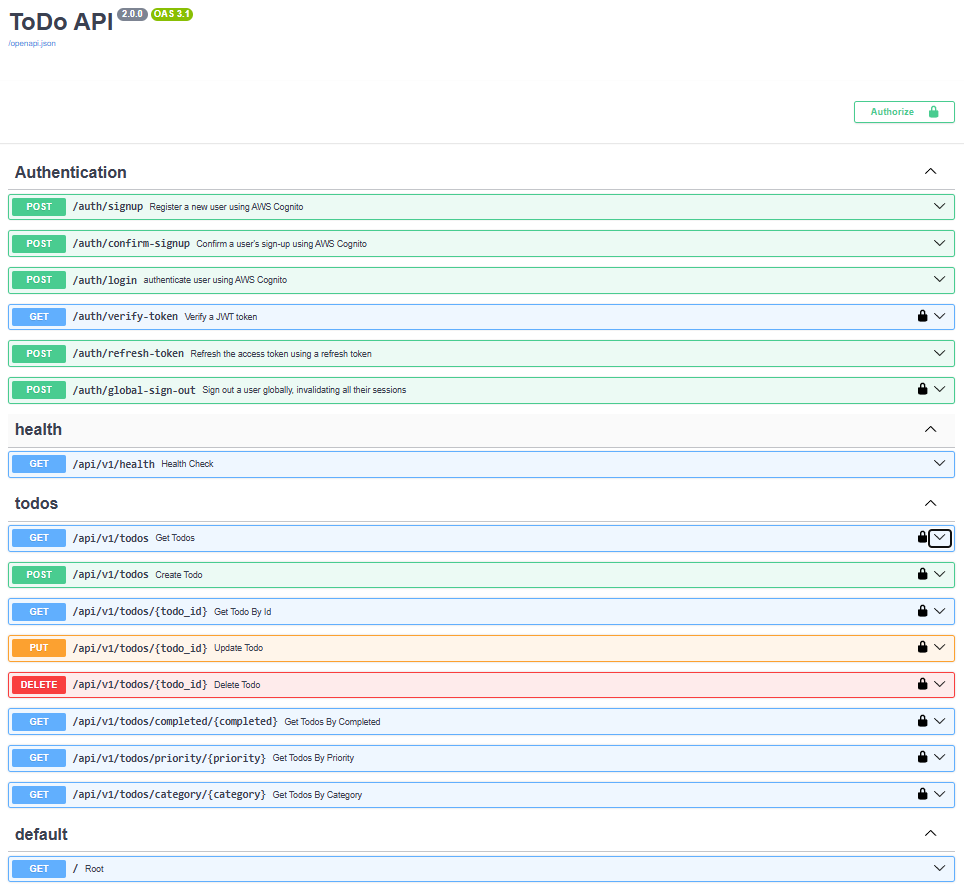
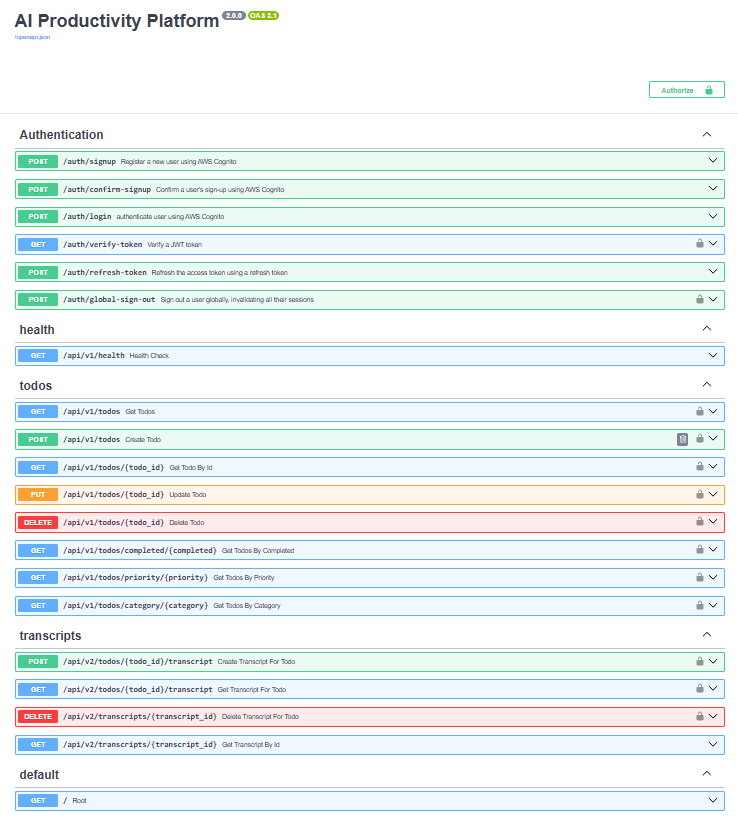
Readme updated

Changed region(s): [[0.0, 0.1521, 0.9973, 1.0], [0.0, 0.0, 0.374, 0.0608], [0.8726, 0.0912, 0.9973, 0.1521]]

diff --git a/README.md b/README.md
@@ -12,8 +12,9 @@ A production-inspired REST API for managing todo items, built with **FastAPI** a
 | **v1.1** | PostgreSQL on AWS RDS | Production-grade relational database. SQLAlchemy ORM, connection pooling, cloud-hosted on Amazon RDS. Alembic migrations for safe schema changes. Isolated SQLite test database. |
 | **v1.2** | PostgreSQL + AWS Cognito | Added **authentication & authorization** via AWS Cognito + JWT. Multi-user support with user isolation. User registration, login, token refresh, global sign-out. Auto-creates user records on first login. |
 | **v1.3** | PostgreSQL + AWS Cognito | Extended the Todo domain with **Priority** and **Category** support. Added enum-based validation, filtering endpoints, schema migration, repository/service updates, and expanded automated test coverage. |
+| **v1.4** | PostgreSQL + AWS Cognito | Introduced the foundation for the AI Productivity Platform. Added Transcript domain models, database schema, repository layer, service layer, and API v2 architecture in preparation for transcript ingestion and RAG processing. |
 
-> **Current version: v1.3 — Enhanced Todo Management with Priority & Category Filtering**
+> **Current version: v1.4 — AI Productivity Platform Foundation**
 
 ---
 
@@ -32,7 +33,9 @@ A production-inspired REST API for managing todo items, built with **FastAPI** a
 
 ## Overview
 
-This API provides full **CRUD** (Create, Read, Update, Delete) operations for todo items with **multi-user support and JWT-based authentication**. Data is persisted in a **PostgreSQL database hosted on AWS RDS**. User authentication is handled by **AWS Cognito** with secure JWT token verification.
+This project is evolving from a production-inspired Todo backend into an AI Productivity Platform.
+
+Version 1.x focuses on building a production-grade backend foundation using FastAPI, PostgreSQL, AWS Cognito, SQLAlchemy, and layered architecture. Future versions extend this backend with transcript ingestion, cloud storage, Retrieval-Augmented Generation (RAG), semantic search, and AI-powered productivity features.
 
 **Key features:**
 
@@ -44,6 +47,15 @@ This API provides full **CRUD** (Create, Read, Update, Delete) operations for to
 - 🗄️ **PostgreSQL + Alembic migrations** — production-grade database with version-controlled schema evolution
 - 🧪 **Comprehensive test suite** — 60 automated tests covering API, authentication, service, repository, and storage layers
 - 📝 **Request logging & middleware** — structured logs for every request
+
+- 🚀 **AI Platform Foundation**
+
+- API versioning (v1 and v2)
+- Transcript module architecture
+- Transcript metadata management
+- Foundation for cloud file storage (Amazon S3)
+- Foundation for Retrieval-Augmented Generation (RAG)
+
 
 The codebase is intentionally structured to mirror real-world production patterns — layered concerns, dependency injection, custom exception handling, and isolated test environments.
 
@@ -78,11 +90,16 @@ app/
 ├── main.py                           # FastAPI app factory (no startup event — Alembic owns schema)
 │
 ├── api/
-│   └── v1/
-│       ├── router.py                 # Combines all v1 route groups
+│   ├── v1/
+│   │   ├── router.py                 # Combines all v1 route groups
+│   │   └── routes/
+│   │       ├── health.py             # GET /api/v1/health
+│   │       └── todos.py              # Todo CRUD + Filtering endpoints (requires auth)
+│   └── v2/
+│       ├── router.py
 │       └── routes/
-│           ├── health.py             # GET /api/v1/health
-│           └── todos.py              # Todo CRUD + Filtering endpoints (requires auth)
+│           └── transcript.py         # Transcript Upload, Delete, Search (requires auth)
+│
 │
 ├── auth/
 │   ├── cognito.py                    # AWS Cognito client (sign-up, login, token refresh, sign-out)
@@ -103,20 +120,23 @@ app/
 ├── database/
 │   ├── base.py                       # SQLAlchemy DeclarativeBase
 │   ├── database.py                   # Engine, SessionLocal, get_db() dependency
-│   └── models.py                     # TodoModel + UserModel ORM definitions
+│   └── models.py                     # TodoModel + UserModel + Transcript ORM definitions
 │
 ├── schemas/
 │   ├── todo.py                       # Todo Pydantic models (includes user_id)
-│   └── user.py                       # User Pydantic models (UserCreate, CurrentUserResponse)
+│   ├── user.py                       # User Pydantic models (UserCreate, CurrentUserResponse)
+│   └── transcript.py                 # transcript Pydantic model (TranscriptCreate, TranscriptResponse)
 │
 ├── services/
 │   ├── todo_service.py               # Todo business logic (now user-scoped)
-│   └── user_service.py               # User business logic (get_or_create on first login)
+│   ├── user_service.py               # User business logic (get_or_create on first login)
+│   └── transcript_service.py         # transcript business logic (get_or_create for todo task)
 │
 ├── repositories/
 │   ├── postgres_todo_repository.py   # Todo CRUD with user_id filtering
 │   ├── postgres_user_repository.py   # User CRUD via Cognito sub lookup
-│   └── json_todo_repository.py       # Legacy JSON CRUD (retained for reference)
+│   ├── json_todo_repository.py       # Legacy JSON CRUD (retained for reference)
+│   └── transcript_repository.py      # transcript CRD with user_id & Todo_id filtering
 │
 ├── storage/
 │   └── json_storage.py               # Legacy JSON file I/O (retained for reference)
@@ -139,7 +159,8 @@ migrations/
 └── versions/
     ├── 20260703_0637_fabbfc95d6f4_initial_schema.py              # Baseline: todos table
     ├── 20260707_0325_d463e870d8f6_add_users_table_and_user_relationship.py  # Users + FK
-    └── 20260709_0503_7e1a7423a064_addition_of_priority_category_to_todo_.py  # Users (Priority + Category)
+    ├── 20260709_0503_7e1a7423a064_addition_of_priority_category_to_todo_.py  # Users (Priority + Category)
+    └──20260710_0431_29027f8a809c_add_transcript_table.py                      # transcript table (FK todo_id)
 alembic.ini                           # Alembic configuration
 ```
 
@@ -173,10 +194,17 @@ Auth Layer      — Verify JWT, lookup/create user in DB
 ```
 get_current_db_user  →  get_current_user  →  verify JWT  →  AWS Cognito JWKS
      │
-     └── get_user_service  →  get_user_repository  →  get_db  →  PostgreSQL
+     ├── get_user_service  →  get_user_repository  →  get_db  →  PostgreSQL
+     │       │
+     │       ▼
+     │    get_service  →  get_postgres_repository  →  get_db  →  PostgreSQL
+     │ 
+     └── Todos
              │
-             ▼
-         get_service  →  get_postgres_repository  →  get_db  →  PostgreSQL
+             └── One-to-many
+                     │
+                     ▼
+               Transcript Metadata
 ```
 
 This makes each layer independently testable:
@@ -253,6 +281,10 @@ All authentication endpoints are prefixed with `/auth` and **do not require a Be
 | GET | `/api/v1/todos/completed/{completed}` | Filter todos by completion status | 200 |
 | GET | `/api/v1/todos/priority/{priority}` | Filter todos by priority | 200 |
 | GET | `/api/v1/todos/category/{category}` | Filter todos by category | 200 |
+| POST | `/api/v2/todos/{todo_id}/transcript` | Upload a new transcript for todo | 201 |
+| GET | `/api/v2/todos/{todo_id}/transcript` | Get a transcript by todo if uploaded | 200 |
+| DELETE | `/api/v2/transcripts/{transcript_id}` | Delete transcript by transcript id | 204 |
+| GET | `/api/v2/transcripts/{transcript_id}` | Get transcript by transcript id | 200 |
 
 #### Error Responses
 
@@ -391,6 +423,7 @@ Schema changes are managed with **Alembic**. Every change to a model column is c
 | `fabbfc95d6f4` | `initial_schema` — baseline for the `todos` table |
 | `d463e870d8f6` | `add_users_table_and_user_relationship` — adds `users` table and `user_id` FK to `todos` |
 | `7e1a7423a064` | `addition_of_priority_category_to_todo` — adds enum-based `priority` and `category` columns to the `todos` table|
+| `29027f8a809c` | `add_transcript_table` - adds `transcripts` table with FK from `todos` |
 
 > **Note:** The `user_id` column in the `todos` table is nullable to preserve existing todos created before multi-user support was added. New todos always have a `user_id` enforced by the application layer.
 
@@ -456,24 +489,6 @@ Run with verbose output:
 ```bash
 pytest -v
 ```
-
----
-
-## What's New in v1.3
-
-Version **1.3** extends the Todo domain model by introducing structured task metadata and filtering capabilities.
-
-### New Features
-
-- Added **Priority** field with enum validation (`low`, `medium`, `high`)
-- Added **Category** field with enum validation (`work`, `personal`, `other`)
-- Added filtering endpoints for priority and category
-- Updated SQLAlchemy models, repositories, services, and API schemas
-- Added Alembic migration for database schema evolution
-- Expanded automated test coverage from **52** to **60** tests
-- Added validation tests for invalid enum values
-
----
 
 ## License
 